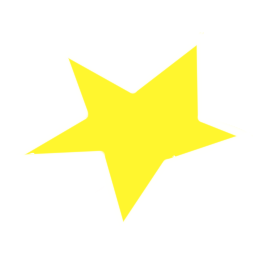
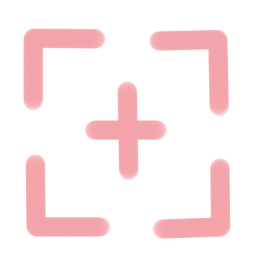
视觉特效更新

diff --git a/Scripts/Commands/TrollCommand.cs b/Scripts/Commands/TrollCommand.cs
@@ -23,6 +23,9 @@ public sealed class TrollCommand
     private IReadOnlyList<Creature>? _targets;
     private ICombatState? _combatState;
     private bool _hasTargeting;
+    private string? _hitVfx;
+    private string? _hitSfx;
+    private string? _tmpHitSfx;
 
     internal TrollCommand(decimal amount)
     {
@@ -69,6 +72,19 @@ public sealed class TrollCommand
         return this;
     }
 
+    /// <summary>
+    /// 为「串」的每次命中指定特效/音效，用法与 AttackCommand.WithHitFx 一致。
+    /// 例：.WithHitFx("vfx/vfx_bloody_impact")。
+    /// sfx 与 tmpSfx 都为空时不播放音效。
+    /// </summary>
+    public TrollCommand WithHitFx(string vfx, string? sfx = null, string? tmpSfx = null)
+    {
+        _hitVfx = vfx;
+        _hitSfx = sfx;
+        _tmpHitSfx = tmpSfx;
+        return this;
+    }
+
     public async Task<IEnumerable<DamageResult>> Execute(PlayerChoiceContext? choiceContext)
     {
         if (!_hasTargeting)
@@ -85,6 +101,8 @@ public sealed class TrollCommand
             if (!target.IsAlive) continue;
             ICombatState? combat = target.CombatState;
             if (combat == null) continue;
+
+            PlayHitFx(target);
 
             decimal modifiedAmount = MyHook.ModifyTrollDamage(combat, target, _amount, _dealer, _cardSource);
             IEnumerable<DamageResult> damageResults = await CreatureCmd.Damage(
@@ -116,6 +134,21 @@ public sealed class TrollCommand
         }
 
         return allDamageResults;
+    }
+
+    /// <summary>播放本次命中的特效与音效（特效缺失时静默跳过）。</summary>
+    private void PlayHitFx(Creature target)
+    {
+        if (!string.IsNullOrEmpty(_hitVfx))
+        {
+            VfxCmd.PlayOnCreatureCenter(target, _hitVfx);
+        }
+
+        string? sfx = !string.IsNullOrEmpty(_hitSfx) ? _hitSfx : _tmpHitSfx;
+        if (!string.IsNullOrEmpty(sfx))
+        {
+            SfxCmd.Play(sfx, 1f);
+        }
     }
 
     private IEnumerable<Creature> GetPossibleTargets()

diff --git a/Scripts/Cards/Purge.cs b/Scripts/Cards/Purge.cs
@@ -45,13 +45,13 @@ public sealed class Purge : BloodywolfCardModel
 	protected override async Task OnPlayEffect(PlayerChoiceContext choiceContext, CardPlay cardPlay)
 	{
 		ArgumentNullException.ThrowIfNull(base.CombatState, "base.CombatState");
-		NCombatRoom.Instance?.CombatVfxContainer.AddChildSafely(NThinSliceVfx.Create(cardPlay.Target));
 		float num = base.Owner.Character.AttackAnimDelay;
 		if (SaveManager.Instance.PrefsSave.FastMode == FastModeType.Normal)
 		{
 			num += 0.2f;
 		}
 		await DamageCmd.Attack(base.DynamicVars.Damage.BaseValue).FromCard(this, cardPlay).TargetingAllOpponents(base.CombatState)
+			.WithHitFx("vfx/vfx_giant_horizontal_slash")
 			.WithAttackerAnim("Attack", num)
 			.Execute(choiceContext);
         decimal CloutValue = base.Owner.Creature.GetPower<CloutPower>()?.Amount ?? 0;

diff --git a/Scripts/Cards/Liquidate.cs b/Scripts/Cards/Liquidate.cs
@@ -47,13 +47,13 @@ public sealed class Liquidate : BloodywolfCardModel, ITranscendenceCard
 	protected override async Task OnPlayEffect(PlayerChoiceContext choiceContext, CardPlay cardPlay)
 	{
 		ArgumentNullException.ThrowIfNull(cardPlay.Target, "cardPlay.Target");
-		NCombatRoom.Instance?.CombatVfxContainer.AddChildSafely(NThinSliceVfx.Create(cardPlay.Target));
 		float num = base.Owner.Character.AttackAnimDelay;
 		if (SaveManager.Instance.PrefsSave.FastMode == FastModeType.Normal)
 		{
 			num += 0.2f;
 		}
 		await DamageCmd.Attack(base.DynamicVars.Damage.BaseValue).FromCard(this, cardPlay).Targeting(cardPlay.Target)
+			.WithHitFx("vfx/vfx_attack_slash")
 			.WithAttackerAnim("Attack", num)
 			.Execute(choiceContext);
         decimal CloutValue = base.Owner.Creature.GetPower<CloutPower>()?.Amount ?? 0;

diff --git a/Scripts/Cards/WhipYou.cs b/Scripts/Cards/WhipYou.cs
@@ -36,13 +36,13 @@ public sealed class WhipYou : BloodywolfCardModel
 	protected override async Task OnPlayEffect(PlayerChoiceContext choiceContext, CardPlay cardPlay)
 	{
 		ArgumentNullException.ThrowIfNull(cardPlay.Target, "cardPlay.Target");
-		NCombatRoom.Instance?.CombatVfxContainer.AddChildSafely(NThinSliceVfx.Create(cardPlay.Target));
 		float num = base.Owner.Character.AttackAnimDelay;
 		if (SaveManager.Instance.PrefsSave.FastMode == FastModeType.Normal)
 		{
 			num += 0.2f;
 		}
 		await DamageCmd.Attack(base.DynamicVars.Damage.BaseValue).FromCard(this, cardPlay).Targeting(cardPlay.Target)
+			.WithHitFx("vfx/vfx_chain")
 			.WithAttackerAnim("Attack", num)
 			.Execute(choiceContext);
         decimal CloutValue = base.Owner.Creature.GetPower<CloutPower>()?.Amount ?? 0;

diff --git a/Scripts/Cards/CupTheoryStrike.cs b/Scripts/Cards/CupTheoryStrike.cs
@@ -36,11 +36,12 @@ public sealed class CupTheoryStrike : BloodywolfCardModel
 	{
 		ArgumentNullException.ThrowIfNull(cardPlay.Target, "cardPlay.Target");
 		AttackCommand attackCommand = await DamageCmd.Attack(base.DynamicVars.Damage.BaseValue).FromCard(this, cardPlay).Targeting(cardPlay.Target)
-			.WithHitFx("vfx/vfx_attack_slash")
+			.WithHitFx("vfx/vfx_attack_blunt")
 			.Execute(choiceContext);
 		await TrollCmd.Troll(attackCommand.Results.SelectMany((List<DamageResult> r) => r).Sum((DamageResult r) => r.TotalDamage))
 			.FromCard(this)
 			.Targeting(cardPlay.Target)
+			.WithHitFx("vfx/vfx_bloody_impact")
 			.Execute(choiceContext);
 	}
 	protected override void OnUpgrade()

diff --git a/Scripts/Cards/IBiteYou.cs b/Scripts/Cards/IBiteYou.cs
@@ -34,7 +34,8 @@ public sealed class IBiteYou : BloodywolfCardModel
 
 	protected override async Task OnPlayEffect(PlayerChoiceContext choiceContext, CardPlay cardPlay)
 	{
-		AttackCommand attackCommand = DamageCmd.Attack(base.DynamicVars.Damage.BaseValue).FromCard(this, cardPlay).Targeting(cardPlay.Target);
+		AttackCommand attackCommand = DamageCmd.Attack(base.DynamicVars.Damage.BaseValue).FromCard(this, cardPlay).Targeting(cardPlay.Target)
+			.WithHitFx("vfx/vfx_bite");
 		await PowerCmd.Apply<CloutPower>(choiceContext, 
             base.Owner.Creature, 
             base.DynamicVars[RateVar.Key].BaseValue, 

diff --git a/Scripts/Cards/Verdict.cs b/Scripts/Cards/Verdict.cs
@@ -27,7 +27,7 @@ public sealed class Verdict : BloodywolfCardModel
 	{
 		ArgumentNullException.ThrowIfNull(cardPlay.Target, "cardPlay.Target");
 		await DamageCmd.Attack(base.DynamicVars.Damage.BaseValue).FromCard(this, cardPlay).Targeting(cardPlay.Target)
-			.WithHitFx("vfx/vfx_attack_slash", null, "heavy_attack.mp3")
+			.WithHitFx("vfx/vfx_heavy_blunt", null, "heavy_attack.mp3")
 			.Execute(choiceContext);
 	}
 	public override Task AfterPowerAmountChanged(PlayerChoiceContext choiceContext, PowerModel power, decimal amount, Creature? applier, CardModel? cardSource)

diff --git a/Scripts/Cards/Headbutt.cs b/Scripts/Cards/Headbutt.cs
@@ -29,7 +29,7 @@ public sealed class Headbutt : BloodywolfCardModel
 		ArgumentNullException.ThrowIfNull(cardPlay.Target, "cardPlay.Target");
 		await DamageCmd.Attack(base.DynamicVars.Damage.BaseValue).WithHitCount(base.DynamicVars.Repeat.IntValue)
 			.FromCard(this, cardPlay).Targeting(cardPlay.Target)
-			.WithHitFx("vfx/vfx_attack_slash")
+			.WithHitFx("vfx/vfx_attack_blunt")
 			.Execute(choiceContext);
         await PowerCmd.Apply<FreeHotTakePower>(choiceContext, base.Owner.Creature, DynamicVars["FreeHotTakePower"].BaseValue, base.Owner.Creature, this);
 	}

diff --git a/Scripts/Cards/Snowball.cs b/Scripts/Cards/Snowball.cs
@@ -45,7 +45,7 @@ public sealed class Snowball : BloodywolfCardModel
 		ArgumentNullException.ThrowIfNull(cardPlay.Target, "cardPlay.Target");
         await DamageCmd.Attack(base.DynamicVars.CalculatedDamage).FromCard(this, cardPlay)
 			.Targeting(cardPlay.Target)
-			.WithHitFx("vfx/vfx_attack_slash")
+			.WithHitFx("vfx/vfx_rock_shatter")
 			.Execute(choiceContext);
     }
     public override async Task AfterDamageGiven(PlayerChoiceContext choiceContext, Creature? dealer, DamageResult result, ValueProp props, Creature target, CardModel? cardSource)

diff --git a/Scripts/Cards/StalwartStrike.cs b/Scripts/Cards/StalwartStrike.cs
@@ -27,7 +27,7 @@ public sealed class StalwartStrike : BloodywolfCardModel
 	{
 		ArgumentNullException.ThrowIfNull(cardPlay.Target, "cardPlay.Target");
 		await DamageCmd.Attack(base.DynamicVars.Damage.BaseValue).FromCard(this, cardPlay).Targeting(cardPlay.Target)
-			.WithHitFx("vfx/vfx_attack_slash")
+			.WithHitFx("vfx/orbs/glass/vfx_glass_orb_evoke_impact")
 			.Execute(choiceContext);
         await PowerCmd.Apply<StalwartPower>(choiceContext, cardPlay.Target, DynamicVars["StalwartPower"].BaseValue, base.Owner.Creature, this);
 	}

diff --git a/Scripts/Cards/CrossCompare.cs b/Scripts/Cards/CrossCompare.cs
@@ -34,7 +34,7 @@ public sealed class CrossCompare : BloodywolfCardModel
     {
         await DamageCmd.Attack(base.DynamicVars.Damage.BaseValue).FromCard(this, cardPlay)
             .TargetingAllOpponents(base.CombatState)
-            .WithHitFx("vfx/vfx_attack_slash")
+			.WithHitFx("vfx/vfx_flying_slash")
             .Execute(choiceContext);
     }
     public override async Task AfterDamageGiven(PlayerChoiceContext choiceContext, Creature? dealer, DamageResult result, ValueProp props, Creature target, CardModel? cardSource)

diff --git a/Scripts/Cards/FrameCheck.cs b/Scripts/Cards/FrameCheck.cs
@@ -37,7 +37,7 @@ public sealed class FrameCheck : BloodywolfCardModel
 	{
 		ArgumentNullException.ThrowIfNull(cardPlay.Target, "cardPlay.Target");
         await DamageCmd.Attack(base.DynamicVars.Damage.BaseValue).FromCard(this, cardPlay).Targeting(cardPlay.Target)
-			.WithHitFx("vfx/vfx_attack_slash")
+			.WithHitFx("vfx/vfx_gaze")
 			.Execute(choiceContext);
         decimal CloutValue = base.Owner.Creature.GetPower<CloutPower>()?.Amount ?? 0;
         if(CloutValue >= base.DynamicVars[HotTakeVar.Key].BaseValue)
